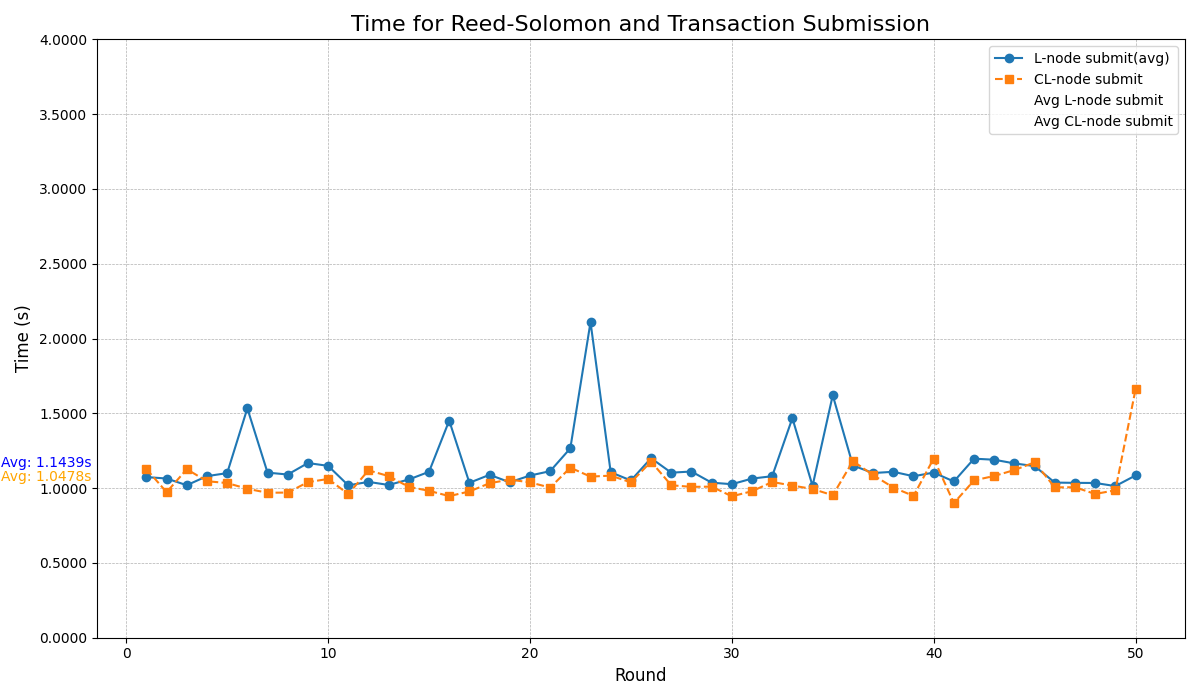
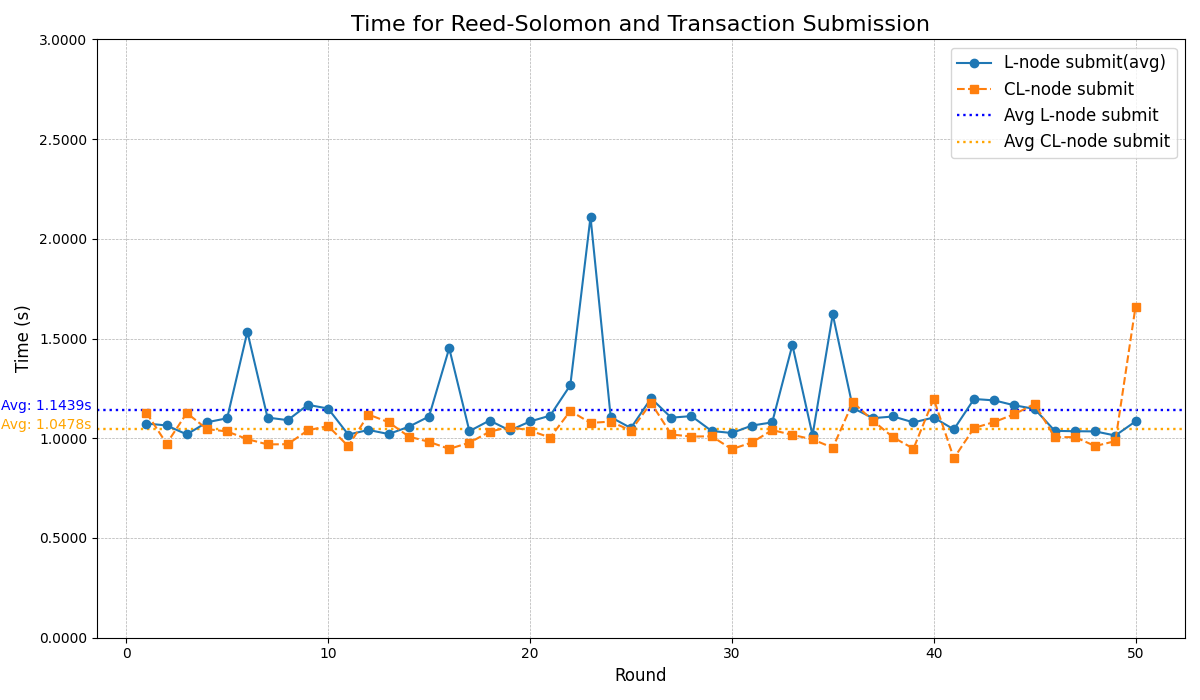
graph confirm

diff --git a/script/plot_onchain.py b/script/plot_onchain.py
@@ -80,7 +80,7 @@ def plot_onchain_logic_time(rounds, agg_times, ele_times):
         pad = max((ymax - ymin) * 0.15, 0.0001)  # 최소 0.1ms 여유
         plt.ylim(max(0.0, ymin - pad), ymax + pad)
     
-    plt.legend()
+    plt.legend(fontsize=12)
     plt.tight_layout()
     plt.savefig('1_onchain_logic_time.png')
     print("그래프 '1_onchain_logic_time.png'가 저장되었습니다.")
@@ -90,10 +90,12 @@ def plot_submission_time(df):
     plt.figure(figsize=(12, 7))
     plt.plot(df['round_id'], df['avg_lnode_time'], marker='o', linestyle='-', label='L-node submit(avg)')
     plt.plot(df['round_id'], df['global_model_time'], marker='s', linestyle='--', label='CL-node submit')
-     # 그래프에 전체 라운드의 평균 시간을 한쪽에 출력
-    plt.axhline(y=df['avg_lnode_time'].mean(), color='blue', linestyle='', label='Avg L-node submit')
-    plt.axhline(y=df['global_model_time'].mean(), color='yellow', linestyle='', label='Avg CL-node submit')
-    # axhline로 그려진 선의 값을 Y축 왼쪽에 텍스트로 표시 
+     # 그래프에 전체 라운드의 평균 시간을 한쪽에 출력, axhline로 그려진 선이 round_id 선의 뒤로 가도록 설정
+    plt.axhline(y=df['avg_lnode_time'].mean(), color='blue', linestyle=':', linewidth=1.7, label='Avg L-node submit', zorder=0)
+    plt.axhline(y=df['global_model_time'].mean(), color='orange', linestyle=':', linewidth=1.7, label='Avg CL-node submit', zorder=0)
+    
+   
+    # axhline로 그려진 선의 값을 Y축 왼쪽에 텍스트로 표시
     plt.text(df['round_id'].min() - 7.2, df['avg_lnode_time'].mean(), f'Avg: {df["avg_lnode_time"].mean():.4f}s', color='blue', fontsize=10)
     plt.text(df['round_id'].min() - 7.2, df['global_model_time'].mean(), f'Avg: {df["global_model_time"].mean():.4f}s', color='orange', fontsize=10)
 
@@ -103,10 +105,10 @@ def plot_submission_time(df):
     plt.grid(True, which='both', linestyle='--', linewidth=0.5)
     
     # Y축 범위 설정
-    plt.ylim(0, 4)
+    plt.ylim(0, 3)
     
     plt.gca().yaxis.set_major_formatter(mticker.FormatStrFormatter('%.4f'))
-    plt.legend()
+    plt.legend(fontsize=12)
     plt.tight_layout()
     plt.savefig('2_submission_time.png')
     print("그래프 '2_submission_time.png'가 저장되었습니다.")
@@ -137,7 +139,7 @@ def plot_total_process_time(df):
     plt.ylim(0, 20)
     
     plt.gca().yaxis.set_major_formatter(mticker.FormatStrFormatter('%.4f'))
-    plt.legend()
+    plt.legend(fontsize=12)
     plt.tight_layout()
     plt.savefig('3_total_process_time.png')
     print("그래프 '3_total_process_time.png'가 저장되었습니다.")

diff --git a/script/plot_tps.py b/script/plot_tps.py
@@ -24,9 +24,10 @@ for file in sorted(csv_files):
         data = pd.read_csv(file)
 
         # 라인 그래프 그리기: x축은 시간(초), y축은 실제 TPS.
-        plt.plot(data['second'], data['actual_tps'], marker='o', linestyle='-', label=f'Target Load = {concurrency} tx/sec')
-        # 평균값 텍스트 표시 (색깔 맞춰서 표시, 그래프 오른쪽 끝에) 글자를 살짝 아래로, 글자를 살짝 오른쪽으로 이동
-        plt.text(data['second'].iloc[-1] + 0.8, data['actual_tps'].iloc[-1] - 0.5, f'Avg: {data["actual_tps"].mean():.2f}', fontsize=9, color=plt.gca().lines[-1].get_color(), verticalalignment='bottom', horizontalalignment='left')
+        plt.plot(data['second'], data['actual_tps'], marker='o', linestyle='-', label=f'Target Load = {concurrency} tx/sec', linewidth=2.3)
+        # 평균값 라인 두께0.95, 색깔은 그래프 선 색깔과 동일하게, 점선으로 표시, 값 텍스트를 라벨)
+        plt.axhline(y=data['actual_tps'].mean(), color=plt.gca().lines[-1].get_color(), linestyle='--', linewidth=1.3, label=f'Avg TPS ({concurrency} tx/sec) = {data["actual_tps"].mean():.2f}')
+
 
         # 각 테스트의 평균 TPS를 계산하여 터미널에 출력.
         avg_tps = data['actual_tps'].mean()
@@ -39,11 +40,11 @@ for file in sorted(csv_files):
 plt.title('TPS changes over time (comparison by load level)', fontsize=16)
 plt.xlabel('Time', fontsize=12)
 plt.ylabel('Transactions processed per second', fontsize=12)
-plt.legend() 
+plt.legend(fontsize=12) 
 plt.grid(True, which='both', linestyle='--', linewidth=0.5) 
 plt.tight_layout() 
 # y축 범위 고정
-plt.ylim(0, 60)
+plt.ylim(30, 60)
 
 # --- 4. 그래프 저장 ---
 plt.savefig('tps_timeseries_comparison.png')
